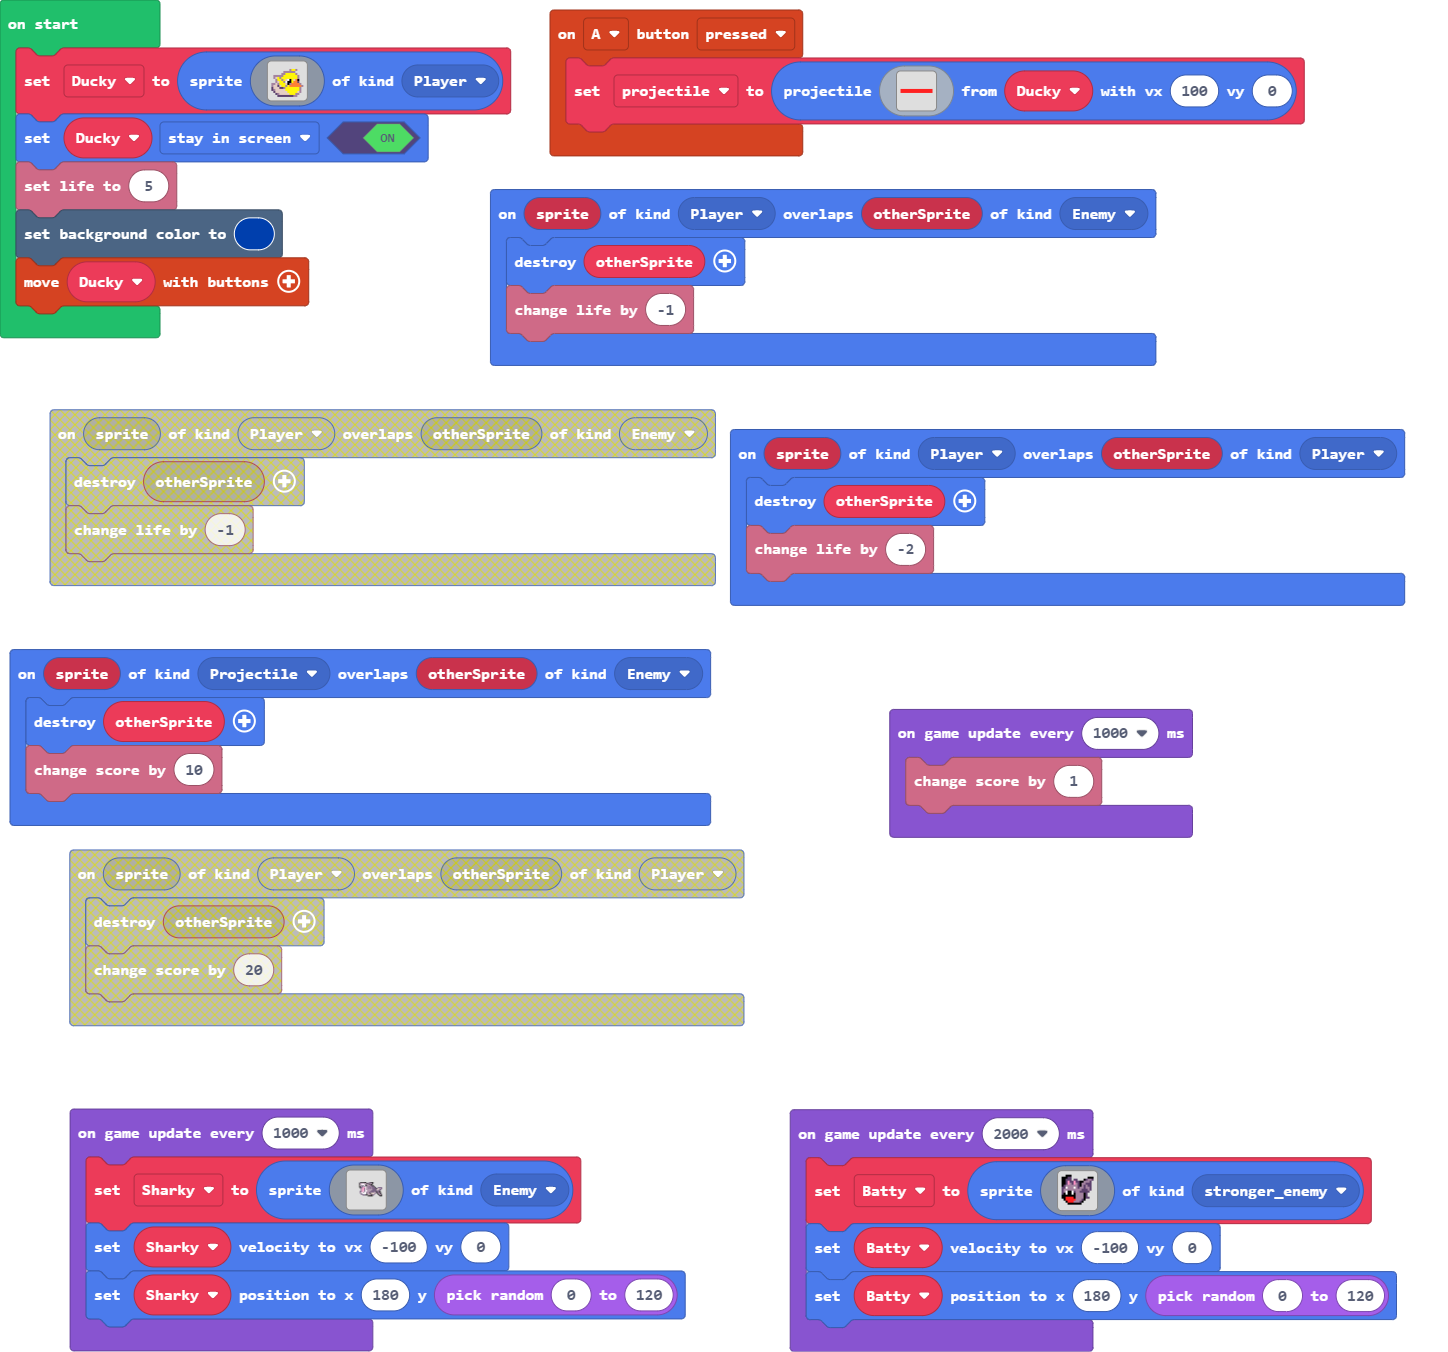
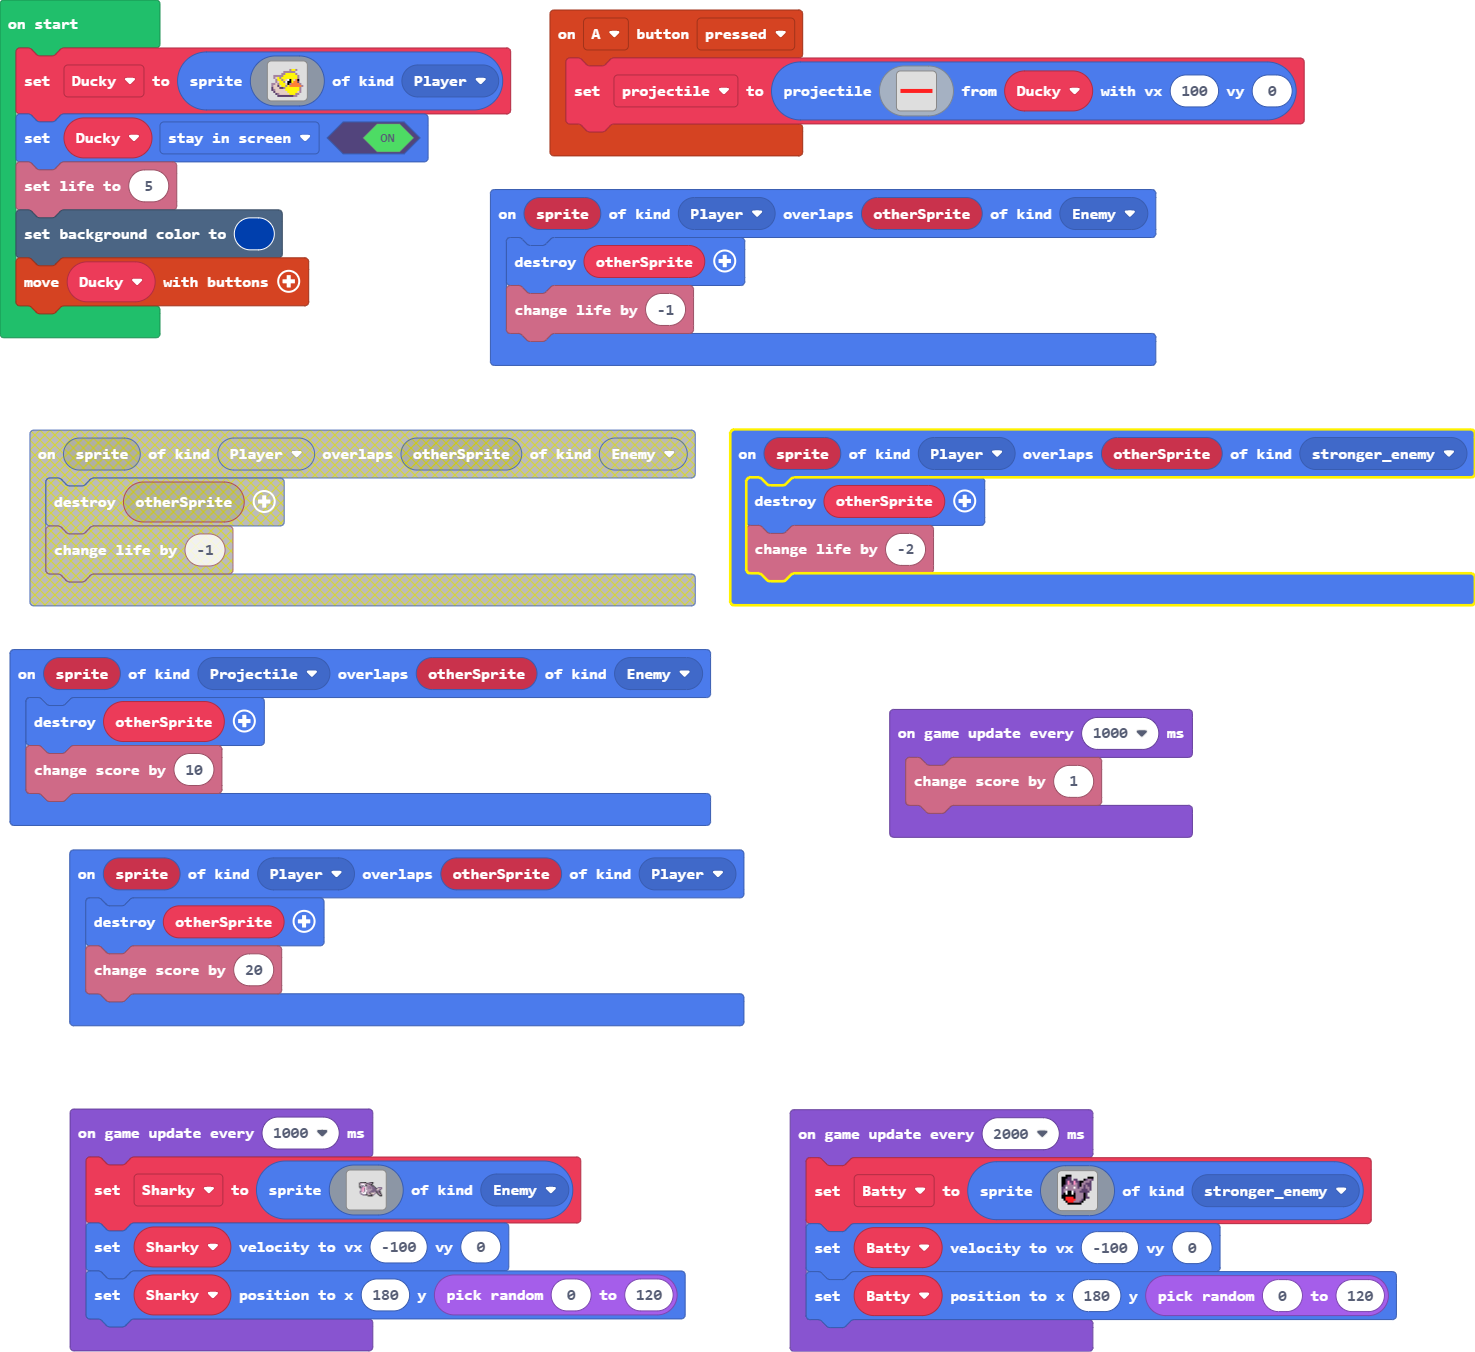
Bug fixes for Update 1.4

diff --git a/main.ts b/main.ts
@@ -1,6 +1,10 @@
 namespace SpriteKind {
     export const stronger_enemy = SpriteKind.create()
 }
+sprites.onOverlap(SpriteKind.Player, SpriteKind.stronger_enemy, function (sprite, otherSprite) {
+    otherSprite.destroy()
+    info.changeLifeBy(-2)
+})
 controller.A.onEvent(ControllerButtonEvent.Pressed, function () {
     projectile = sprites.createProjectileFromSprite(img`
         . . . . . . . . . . . . . . . . 
@@ -23,7 +27,7 @@ controller.A.onEvent(ControllerButtonEvent.Pressed, function () {
 })
 sprites.onOverlap(SpriteKind.Player, SpriteKind.Player, function (sprite, otherSprite) {
     otherSprite.destroy()
-    info.changeLifeBy(-2)
+    info.changeScoreBy(20)
 })
 sprites.onOverlap(SpriteKind.Projectile, SpriteKind.Enemy, function (sprite, otherSprite) {
     otherSprite.destroy()
